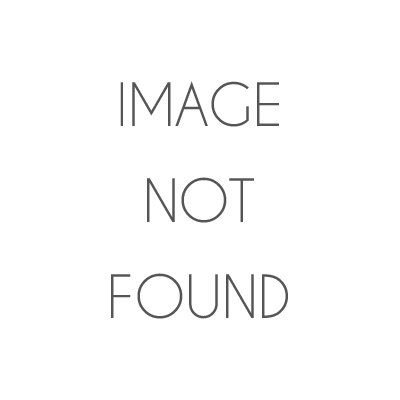
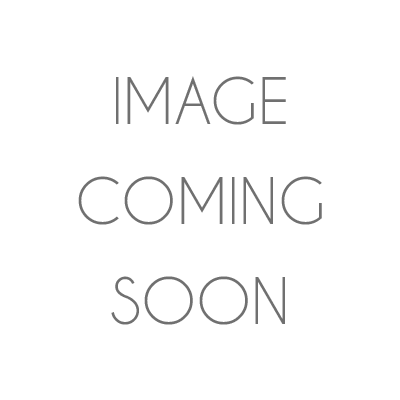
Export Zip now has country vat and color sheets. Default images set to Image Coming Soon

diff --git a/src/admin/pages/ajax.php b/src/admin/pages/ajax.php
@@ -2690,6 +2690,45 @@ if ( isset($_GET['importThis']) ) {
 			#No Rows Found
 		}
 
+		#Country Sheet
+		$outputExcel->createSheet(5);
+		$outputExcel->setActiveSheetIndex(5);
+		$outputExcel->getActiveSheet()->setTitle('country_vat');
+		$outputExcel->getActiveSheet()->getStyle('A1:B1')->getFont()->setBold(true);
+		$outputExcel->getActiveSheet()->setCellValue('A1', 'id');
+		$outputExcel->getActiveSheet()->setCellValue('B1', 'country_name');
+
+		$getCategories = $pdo->prepare("SELECT * FROM `country_vat`");
+		$getCategories->execute();
+
+		if ( $getCategories->rowCount() > 0 ) {
+			$categories = $getCategories->fetchAll();
+
+			for($i = 0; $i < sizeof($categories); $i++ ) {
+				$outputExcel->getActiveSheet()->setCellValue('A' . intval($i+2), $categories[$i]['id']);
+				$outputExcel->getActiveSheet()->setCellValue('B' . intval($i+2), $categories[$i]['country_name']);
+			}
+		} else {
+			#No Rows Found
+		}
+
+		#Color Sheet
+		$outputExcel->createSheet(6);
+		$outputExcel->setActiveSheetIndex(6);
+		$outputExcel->getActiveSheet()->setTitle('color');
+		$outputExcel->getActiveSheet()->getStyle('A1:B1')->getFont()->setBold(true);
+		$outputExcel->getActiveSheet()->setCellValue('A1', 'id');
+		$outputExcel->getActiveSheet()->setCellValue('B1', 'color');
+
+		$getCategories = $pdo->prepare("SELECT * FROM `country_vat`");
+		$getCategories->execute();
+		
+		$outputExcel->getActiveSheet()->setCellValue('A2', "1");
+		$outputExcel->getActiveSheet()->setCellValue('B2', "White Stone");
+		
+		$outputExcel->getActiveSheet()->setCellValue('A3', "2");
+		$outputExcel->getActiveSheet()->setCellValue('B3', "Colored Stone");
+
 	}
 
 function rrmdir($dir) { 
